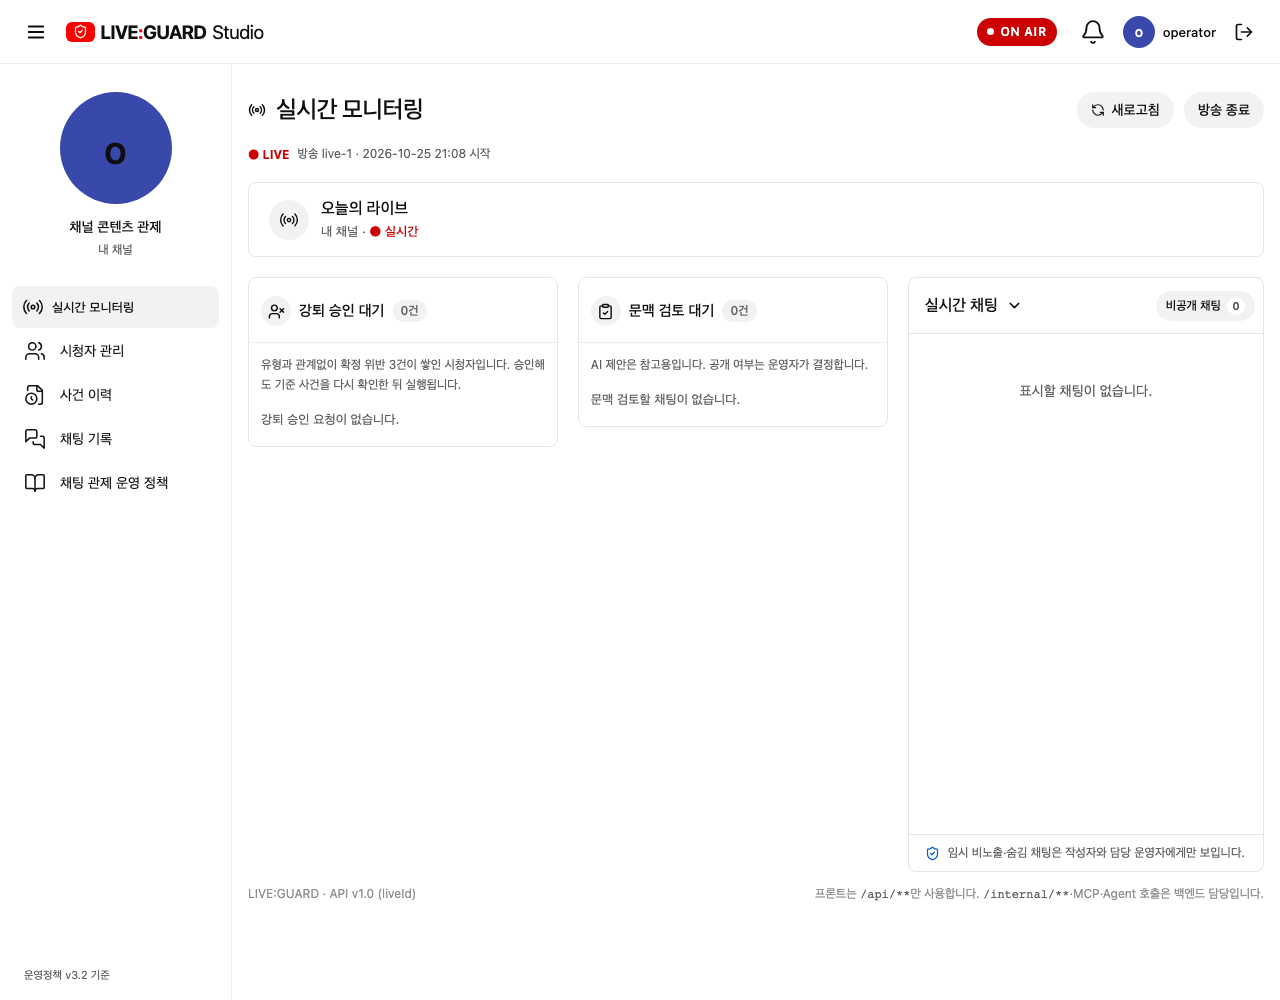
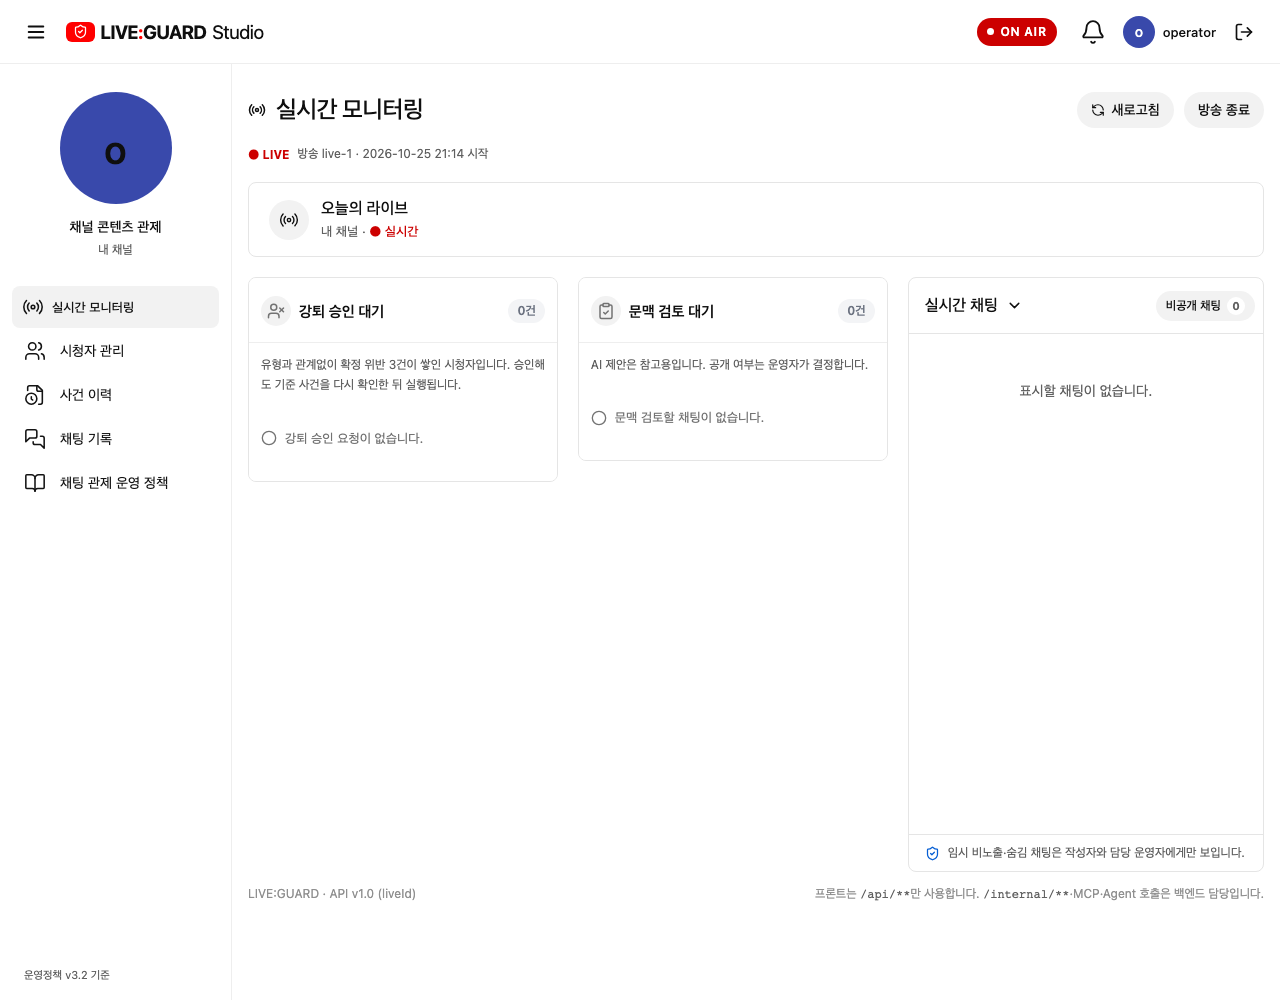
feat: add neutral and actionable queue summary widgets

diff --git a/src/StudioScreen.vue b/src/StudioScreen.vue
@@ -2,10 +2,11 @@
 // 운영자(스트리머) Studio 화면. 목업과 실제 API가 같은 화면을 쓴다(#12).
 // 화면은 API v1.0 모양의 데이터와 사용자 동작만 다룬다. API·SSE 연결은 LiveConsole.vue, 목업 판정은 mockLive.ts가 맡는다.
 import { computed, nextTick, onBeforeUnmount, onMounted, reactive, ref, watch } from 'vue';
-import { AlertCircle, BookOpen, ChevronDown, ChevronRight, ClipboardCheck, FileClock, LogOut, Menu, MessagesSquare, Pause, Play, Radio, RefreshCcw, ShieldCheck, Users, UserX } from 'lucide-vue-next';
+import { AlertCircle, BookOpen, ChevronDown, ChevronRight, ClipboardCheck, FileClock, LogOut, Menu, MessagesSquare, Pause, Play, Radio, RefreshCcw, ShieldCheck, Users } from 'lucide-vue-next';
 import ViewerManage from './ViewerManage.vue';
 import OperatorTools from './OperatorTools.vue';
 import DecisionNotifications from './DecisionNotifications.vue';
+import StatusSummaryWidget from './StatusSummaryWidget.vue';
 import type { ShortcutAction, OperatorAlert } from './operatorTools';
 import ModeBadge from './ModeBadge.vue';
 import AiEvidence from './AiEvidence.vue';
@@ -366,10 +367,7 @@ const dictRows: { name: string; words: string[]; result: string }[] = [
               <div v-if="page==='monitor'" class="stream-panel card studio-broadcast-summary"><div class="stream-caption"><span class="yt-channel-avatar studio-stream-icon"><Radio :size="20" :stroke-width="1.7"/></span><div><b>{{mock ? '오늘도 게임하는 날! 같이 놀아요 🎮' : '오늘의 라이브'}}</b><small>{{channelName}} · <span class="live-badge">{{ended ? '방송 종료' : '● 실시간'}}</span></small></div></div></div>
             <p v-if="arrivalAnnouncement" class="monitor-arrival-announcement" role="status">{{arrivalAnnouncement}}</p>
             <div v-if="page==='monitor'" class="live-monitoring-grid queue-page">
-                <section v-for="q in monitorQueues" :key="q.kind" class="hitl-section decision-queue" :class="q.kind.toLowerCase()" :aria-label="q.title" @focusin="queueTab=q.kind" @click="queueTab=q.kind">
-                  <header class="section-head"><span class="section-icon human"><UserX v-if="q.kind==='KICK'" :size="17"/><ClipboardCheck v-else :size="17"/></span><h2>{{q.title}}</h2><span class="pending-count">{{q.items.length}}건</span><span v-if="q.items.some(r=>freshReviews.has(r.reviewId))" class="queue-new-indicator">새 요청</span></header>
-                  <p class="queue-note">{{q.note}}</p>
-                  <p v-if="!q.items.length" class="section-empty">{{q.empty}}</p>
+                <StatusSummaryWidget v-for="q in monitorQueues" :key="q.kind" :title="q.title" :kind="q.kind" :count="q.items.length" :description="q.note" :empty-text="q.empty" :fresh="q.items.some(r=>freshReviews.has(r.reviewId))" :ended="ended" @focusin="queueTab=q.kind" @click="queueTab=q.kind">
                   <article v-for="r in q.items" :key="r.reviewId" class="studio-review" :class="[r.kind.toLowerCase(), {open: isOpen(r), 'review-arrival': freshReviews.has(r.reviewId)}]" :data-review-id="r.reviewId" :data-version="r.version">
                     <button type="button" class="review-head" :aria-expanded="isOpen(r)" @click="toggleReview(r)">
                       <ChevronDown v-if="isOpen(r)" :size="16"/><ChevronRight v-else :size="16"/>
@@ -406,7 +404,7 @@ const dictRows: { name: string; words: string[]; result: string }[] = [
                       </template>
                     </div>
                   </article>
-                </section>
+                </StatusSummaryWidget>
             <section class="monitor-grid chat-only">
 
               <div class="chat-panel card"><div class="panel-heading"><h2>실시간 채팅 <ChevronDown :size="17"/></h2><div class="panel-heading-end"><button v-if="feedOn !== null" class="icon-control" :class="{on: feedOn}" :title="feedOn ? '채팅 흐름 일시정지 (MOCK)' : '채팅 흐름 재생 (MOCK)'" :aria-pressed="feedOn" @click="emit('toggleFeed')"><Pause v-if="feedOn" :size="17"/><Play v-else :size="17"/></button><button class="blocked-toggle" :class="{on: filter==='private'}" :aria-pressed="filter==='private'" @click="filter = filter==='all' ? 'private' : 'all'" :title="filter==='all' ? '임시 비노출·숨김 채팅만 보기' : '전체 채팅 보기'">비공개 채팅 <b>{{privateCount}}</b></button></div></div>

diff --git a/src/style.css b/src/style.css
@@ -1304,3 +1304,16 @@ code{font-family:'Roboto Mono',ui-monospace,Consolas,monospace}
 .studio-shell .studio-broadcast-summary .stream-caption b{white-space:normal;overflow-wrap:anywhere}
 .studio-shell .live-monitoring-grid .monitor-grid.chat-only{grid-template-areas:'chat';grid-template-rows:auto}
 @media(max-width:600px){.studio-shell .studio-broadcast-summary{margin-bottom:16px}.studio-shell .studio-broadcast-summary .stream-caption{padding:14px}}
+
+/* Shared queue summary: neutral at zero, actionable only when requests exist. */
+.studio-shell .status-summary-head{align-items:center;column-gap:8px;row-gap:8px}
+.status-summary-title{display:flex;align-items:center;gap:8px;flex:1;min-width:0}
+.studio-shell .live-monitoring-grid .status-summary-title h2{font-weight:600;font-size:15px;line-height:1.5}
+.studio-shell .status-summary-icon{background:#f2f2f2;color:#737373;flex:none}
+.studio-shell .has-pending .status-summary-icon{background:#fce8e6;color:#b3261e}
+.studio-shell .status-summary-count{margin:0;background:#f3f4f6;color:#6b7280;font-size:12px;font-weight:600;padding:4px 9px;flex:none}
+.studio-shell .status-summary-count.is-pending{background:#fde7e7;color:#b3261e}
+.studio-shell .status-summary-description{font-size:12px;font-weight:400;line-height:1.7;color:#606060;margin:0 0 16px}
+.studio-shell .status-summary-empty{display:flex;align-items:center;gap:8px;text-align:left;color:#737373;font-size:13px;font-weight:400;line-height:1.6;padding:16px 0 20px}
+.status-summary-empty svg,.status-summary-action svg{flex:none}
+.status-summary-action{display:flex;align-items:center;gap:8px;margin:0 0 14px;color:#b3261e;font-size:13px;font-weight:500;line-height:1.6}

diff --git a/src/StatusSummaryWidget.vue b/src/StatusSummaryWidget.vue
@@ -1,0 +1,17 @@
+<script setup lang="ts">
+import {AlertTriangle, Circle, ClipboardCheck, UserX} from 'lucide-vue-next';
+defineProps<{title:string;kind:'KICK'|'CONTEXT';count:number;description:string;emptyText:string;fresh?:boolean;ended?:boolean}>();
+</script>
+<template>
+ <section class="hitl-section decision-queue status-summary-widget" :class="[kind.toLowerCase(),{'has-pending':count>0}]" :aria-label="title">
+  <header class="section-head status-summary-head">
+   <div class="status-summary-title"><span class="section-icon status-summary-icon" aria-hidden="true"><UserX v-if="kind==='KICK'" :size="18"/><ClipboardCheck v-else :size="18"/></span><h2>{{title}}</h2></div>
+   <span class="pending-count status-summary-count" :class="{'is-pending':count>0}">{{count}}건</span>
+   <span v-if="fresh" class="queue-new-indicator">새 요청</span>
+  </header>
+  <p class="queue-note status-summary-description">{{description}}</p>
+  <p v-if="!count" class="section-empty status-summary-empty"><Circle :size="16" aria-hidden="true"/><span>{{emptyText}}</span></p>
+  <p v-else class="status-summary-action"><AlertTriangle :size="16" aria-hidden="true"/><span>{{ended?'방송이 종료되어 결정할 수 없습니다.':'처리 대기 중인 항목이 있습니다.'}}</span></p>
+  <slot/>
+ </section>
+</template>

diff --git a/docs/status-summary-widget.md b/docs/status-summary-widget.md
@@ -1,0 +1,39 @@
+# 상태 요약 위젯: 빈 상태와 처리 필요 상태 구분
+
+사용자가 제시한 디자인대로 강퇴 승인 대기·문맥 검토 대기를 공통 `StatusSummaryWidget.vue`로 분리했습니다. 이전에는 건수 배지가 항상 회색이어서 실제 처리할 요청이 있는지 구분이 약했습니다. 이제 빈 상태는 차분하게, 요청이 있을 때만 경고색으로 강조합니다.
+
+| 상태 | 표시 |
+| --- | --- |
+| 0건 | 회색 아이콘·연회색 배지·회색 건수, 원형 선 아이콘과 차분한 유형별 빈 안내. 경고 안내 없음 |
+| 1건 이상 | 빨간 아이콘·연한 빨강 배지·진한 빨강 건수, 경고 아이콘과 ‘처리 대기 중인 항목이 있습니다’ 안내 |
+| 방송 종료 | 기존 결정 차단을 유지하고 ‘방송이 종료되어 결정할 수 없습니다’ 안내 |
+
+제목은 15px/600, 설명은 12px/400·줄 간격 1.7, 상태 안내는 13px로 구분합니다. 제목/아이콘과 건수 배지를 한 줄에 배치하고 건수는 우측에 정렬합니다. 색만으로 구분하지 않도록 건수·아이콘·문구를 함께 표시합니다. 요청 종류별 독립 건수, 3열 순서, 기존 결정 카드·새 요청 강조·키보드/종 이동을 유지합니다.
+
+위젯은 title/kind/count/description/emptyText/fresh/ended를 받고, 기존 결정 카드들은 기본 슬롯으로 표시합니다. 실제 집계·필터·결정 요청은 상위 화면과 기존 API 로직을 유지합니다. API·정책·ERD 변경은 없습니다. 목업과 API가 같은 StudioScreen/위젯을 사용합니다.
+
+## 증거
+
+첫 두 장은 격리 API 테스트 픽스처입니다. 실제 방송에 검토 데이터를 생성하지 않았습니다.
+
+![0건: 중립 상태](evidence/status-summary/01-empty-api-fixture.png)
+
+![문맥 1건·강퇴 0건: 독립 상태](evidence/status-summary/02-one-pending-api-fixture.png)
+
+![목업: 두 종류 모두 처리 필요](evidence/status-summary/03-pending-mock.png)
+
+3000번 프론트엔드만 재빌드하고 실제 스트리머 로그인으로 빈 상태·종·설정·390/360px 가로 넘침 없음·런타임 오류 없음을 확인했습니다. 현재 실제 방송의 검토는 0건입니다.
+
+![실제 API](evidence/status-summary/04-actual-api.png)
+
+<details><summary>실제 API 휴대폰</summary>
+
+![390px](evidence/status-summary/05-actual-api-390.png)
+
+![360px](evidence/status-summary/06-actual-api-360.png)
+
+</details>
+
+## 검증
+
+집중 브라우저 검사 6개에서 초기 중립 상태, SSE 신규 요청의 경고 전환, 다른 종류의 0건 중립 유지, 종료 후 결정 차단과 기존 이동·선택·효과·모바일 배치를 확인했습니다. 최종 전체 브라우저 회귀 71/71, 목업 빌드, Docker API 빌드, `git diff --check`가 모두 통과했습니다.

diff --git a/docs/api-console-parity.md b/docs/api-console-parity.md
@@ -6,7 +6,7 @@
 
 5173번 Vite 개발 서버는 소스 변경을 바로 반영하지만, 3000번은 Docker 안의 정적 빌드를 제공합니다. 이전 3000번 자산에는 종·통합 화면·OFF AIR 코드가 없었습니다. 프론트엔드만 `docker compose build frontend`와 `docker compose up -d --no-deps frontend`로 갱신했습니다. 빌드 소스는 `liveguard-fe`, `VITE_USE_API=true`입니다. BE·Agent·DB는 재시작하지 않았습니다.
 
-현재 3000번 자산은 `/assets/index-C97-_TRp.js`이며 종·통합 화면·OFF AIR 코드가 포함돼 있습니다. 향후 프론트 소스를 수정해도 Docker는 자동 갱신되지 않으므로 3000번 반영을 다시 확인해야 합니다.
+현재 3000번 자산은 `/assets/index-Du0a3n4y.js`이며 종·통합 화면·OFF AIR 코드가 포함돼 있습니다. 향후 프론트 소스를 수정해도 Docker는 자동 갱신되지 않으므로 3000번 반영을 다시 확인해야 합니다.
 
 ## 실제 API 화면 체크
 
@@ -71,3 +71,6 @@ SSE 차단은 검사 브라우저에만 적용했습니다. 실행 중인 방송
 
 
 YouTube Studio 참고 스타일을 운영자 두 화면에 적용했습니다. 흰 작업 공간·사이드바·연회색 선택 메뉴·얇은 테두리·정돈된 글자와 간격의 전후 비교는 [스타일 반영 보고서](studio-reference-style.md)를 참고합니다. 실제 API 콘솔 재빌드와 두 운영자 역할 로그인·모바일 확인을 마쳤습니다.
+
+
+강퇴·문맥 대기열에 공통 상태 요약 위젯을 적용했습니다. 실제 API의 0건은 회색 아이콘·배지·빈 안내로 확인했고, 0→1 경고 전환은 격리 API/SSE 테스트로 검증했습니다. 상세는 [위젯 보고서](status-summary-widget.md)를 참고합니다.

diff --git a/docs/studio-reference-style.md b/docs/studio-reference-style.md
@@ -8,7 +8,7 @@
 | 헤더 | 56px, 본문과 다소 붙은 구성 | 64px 헤더, 28px 본문 상단 간격. 휴대폰은 간격 축소 |
 | 메뉴 | 46px 높이·굵은 글자 | 42px 높이·14px 본문·보통 굵기·검은 선 아이콘 |
 | 프로필·방송 표시 | 게임패드 이모지 장식 | 실제 운영자 이름의 이니셜과 단색 방송 아이콘. 가짜 프로필 이미지를 만들지 않음 |
-| 카드·대기열 | 둥근 테두리와 강퇴 카드의 분홍 면 | 8px 모서리, #e5e5e5 얇은 테두리, 흰 카드와 중립적 건수 표시 |
+| 카드·대기열 | 둥근 테두리와 강퇴 카드의 분홍 면 | 8px 모서리, #e5e5e5 얇은 테두리, 흰 카드와 건수에 따른 회색·빨강 표시 |
 | 근거·인용 | 보라색 인용선·옅은 색상 면 | 연회색 바탕과 얇은 구분으로 읽는 순서 정리 |
 | 제목·본문 | 굵고 큰 제목 반복 | 페이지 24px/500, 영역 15–18px/500, 안내 #606060 |
 | 시스템 운영자 | 별도 회색 틀 | 같은 흰 작업 공간·메뉴·카드·둥근 필터 버튼 규칙 |
